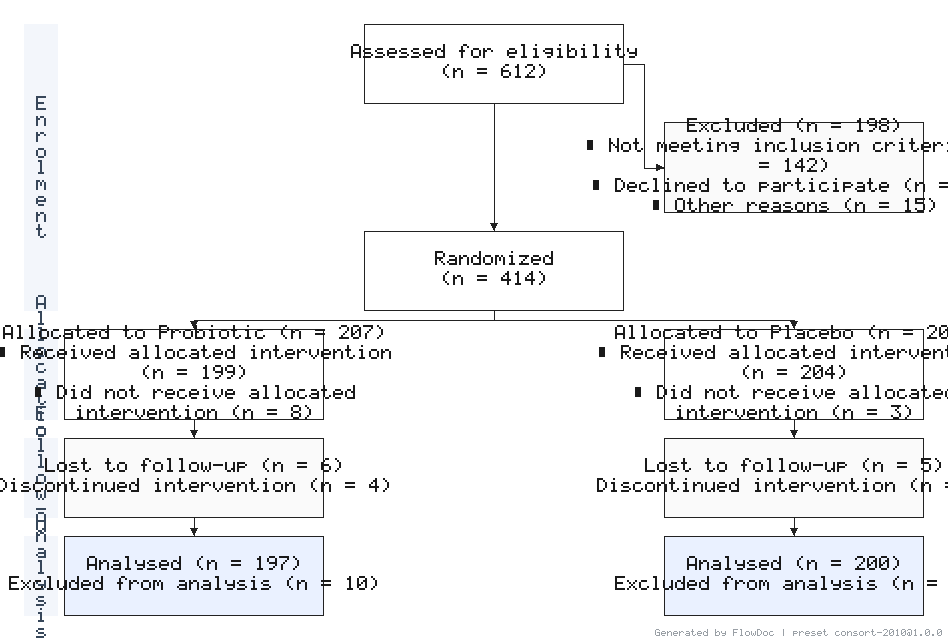
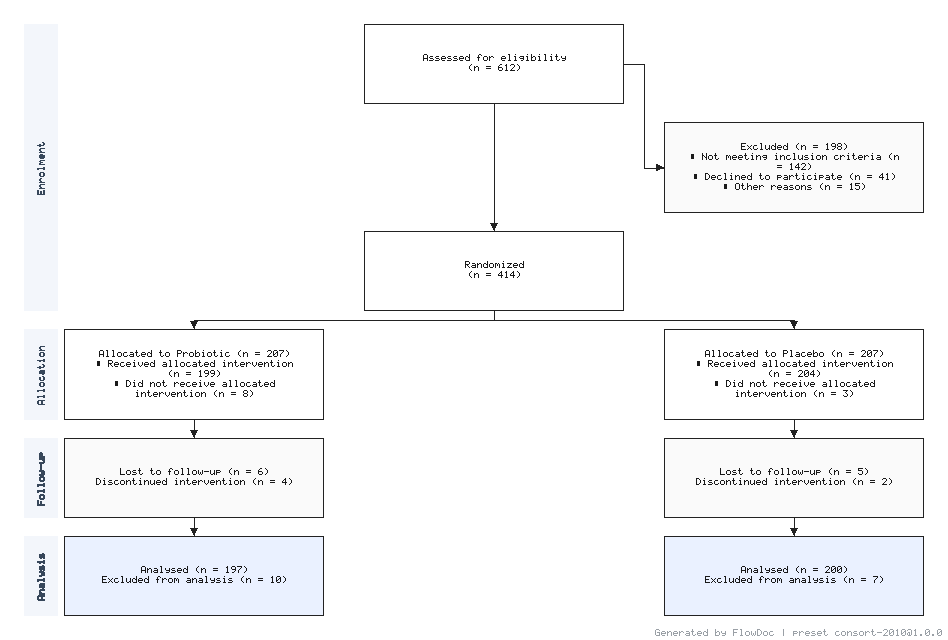
fix(png): keep text inside boxes, rotate section labels properly
- font scale unified to 1 so the bitmap advance (6 px/char) lines up with
  the layout's 0.56-em pre-wrap; previous scale=2 doubled the advance and
  pushed every label outside its node rectangle
- section labels now rendered with a real -90° rotation around the strip
  centre so PNG matches SVG/PDF instead of stacking glyphs one-per-row

diff --git a/src/exporters/png.ts b/src/exporters/png.ts
@@ -224,27 +224,60 @@ function drawText(
   }
 }
 
-function fontScale(svgFontSize: number): number {
-  // SVG fontSize ~12px → bitmap scale 2 (gives 10×14 px glyphs).
-  // SVG fontSize ~9px (watermark) → scale 1.
-  if (svgFontSize <= 10) return 1;
-  return 2;
+function fontScale(_svgFontSize: number): number {
+  // The 5x7 GLCD glyph has a ~0.5-em advance (5 col + 1 col gap = 6 / 12 ≈ 0.5)
+  // which is just under Helvetica's 0.56 em used by the layout's pre-wrap.
+  // At scale=1 the bitmap text fits inside every box the layout reserved;
+  // bumping to scale=2 doubles the advance and pushes labels outside their
+  // boxes. Trade-off: text is small (7 px tall) but always legible and never
+  // overflows. SVG / PDF remain the high-fidelity outputs.
+  return 1;
 }
 
 /* -------------------------- diagram drawing -------------------------- */
 
 function drawSection(fb: Uint8Array, W: number, H: number, s: LaidOutSection): void {
   fillRect(fb, W, H, s.x, s.y, s.width, s.height, SECTION_FILL);
-  // Section label, drawn vertically (one char per row) near the centre of
-  // the strip, in deep slate. Approximation of the SVG's rotated label.
-  const fontSize = 13;
-  const scale = fontScale(fontSize);
-  const cx = Math.round(s.x + s.width / 2 - (GLYPH_WIDTH * scale) / 2);
-  const totalH = s.label.length * (GLYPH_HEIGHT * scale + scale);
-  let y = Math.round(s.y + s.height / 2 - totalH / 2);
-  for (const ch of s.label) {
-    drawText(fb, W, H, ch, cx, y, SECTION_LABEL, scale, false);
-    y += GLYPH_HEIGHT * scale + scale;
+  // Section label rotated -90° around the centre of the strip — matches
+  // the SVG/PDF outputs (text reads bottom-to-top, first char at bottom).
+  const scale = fontScale(13);
+  const cx = s.x + s.width / 2;
+  const cy = s.y + s.height / 2;
+  drawTextRotated(fb, W, H, s.label, cx, cy, SECTION_LABEL, scale);
+}
+
+/**
+ * Render `text` rotated -90° (counterclockwise on screen) around (cx, cy).
+ *
+ * SVG `transform="rotate(-90, cx, cy)"` makes left-to-right horizontal text
+ * read bottom-to-top vertically, with the first character at the bottom.
+ * We replicate that here so PNG section labels match SVG/PDF.
+ */
+function drawTextRotated(
+  fb: Uint8Array, W: number, H: number,
+  text: string, cx: number, cy: number,
+  c: RGB, scale: number,
+): void {
+  if (!text) return;
+  const advance = (GLYPH_WIDTH + 1) * scale;
+  const glyphHeight = GLYPH_HEIGHT * scale;
+  const totalLen = text.length * advance - scale; // last glyph has no trailing gap
+
+  for (let i = 0; i < text.length; i++) {
+    const g = glyphFor(text[i]!);
+    for (let col = 0; col < GLYPH_WIDTH; col++) {
+      const colByte = g[col]!;
+      for (let row = 0; row < GLYPH_HEIGHT; row++) {
+        if (((colByte >> row) & 1) === 0) continue;
+        // Pixel offset from rotated-string centre, in pre-rotation coords.
+        const ox = i * advance + col * scale - totalLen / 2;
+        const oy = row * scale - glyphHeight / 2;
+        // SVG -90° rotation in screen coords: (ox, oy) → (oy, -ox).
+        const sx = cx + oy;
+        const sy = cy - ox;
+        fillRect(fb, W, H, sx, sy, scale, scale, c);
+      }
+    }
   }
 }
 